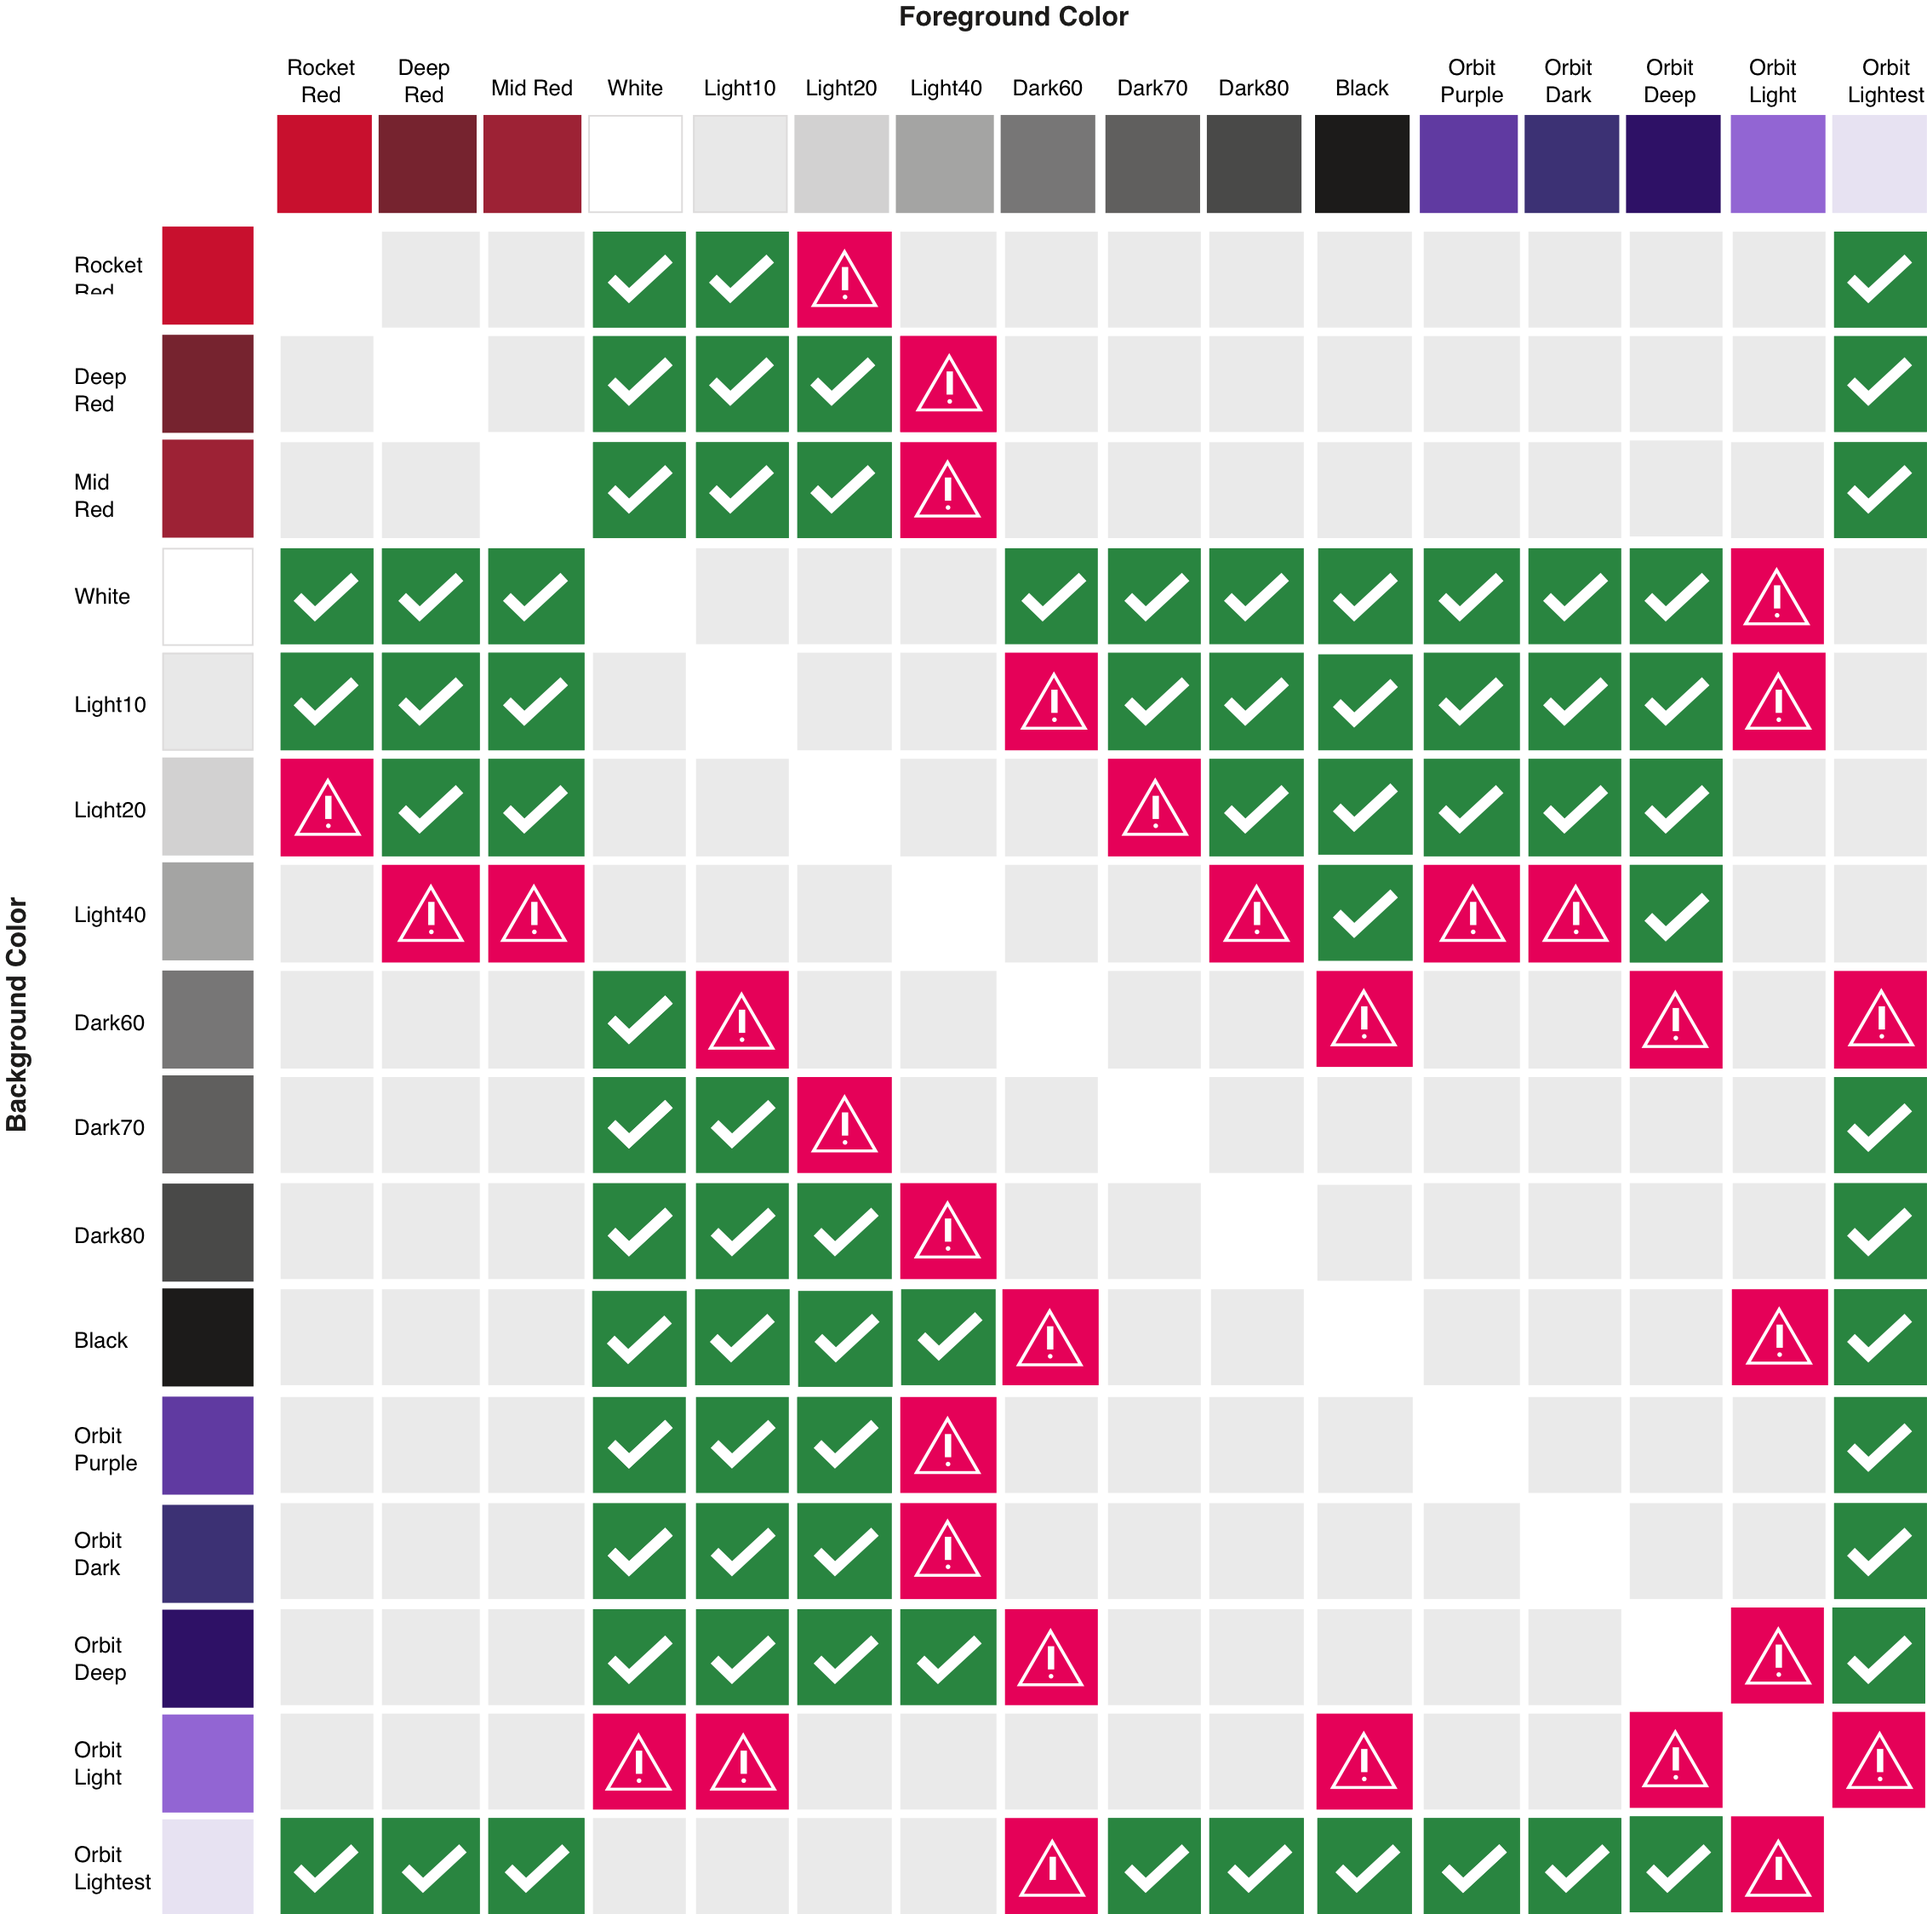
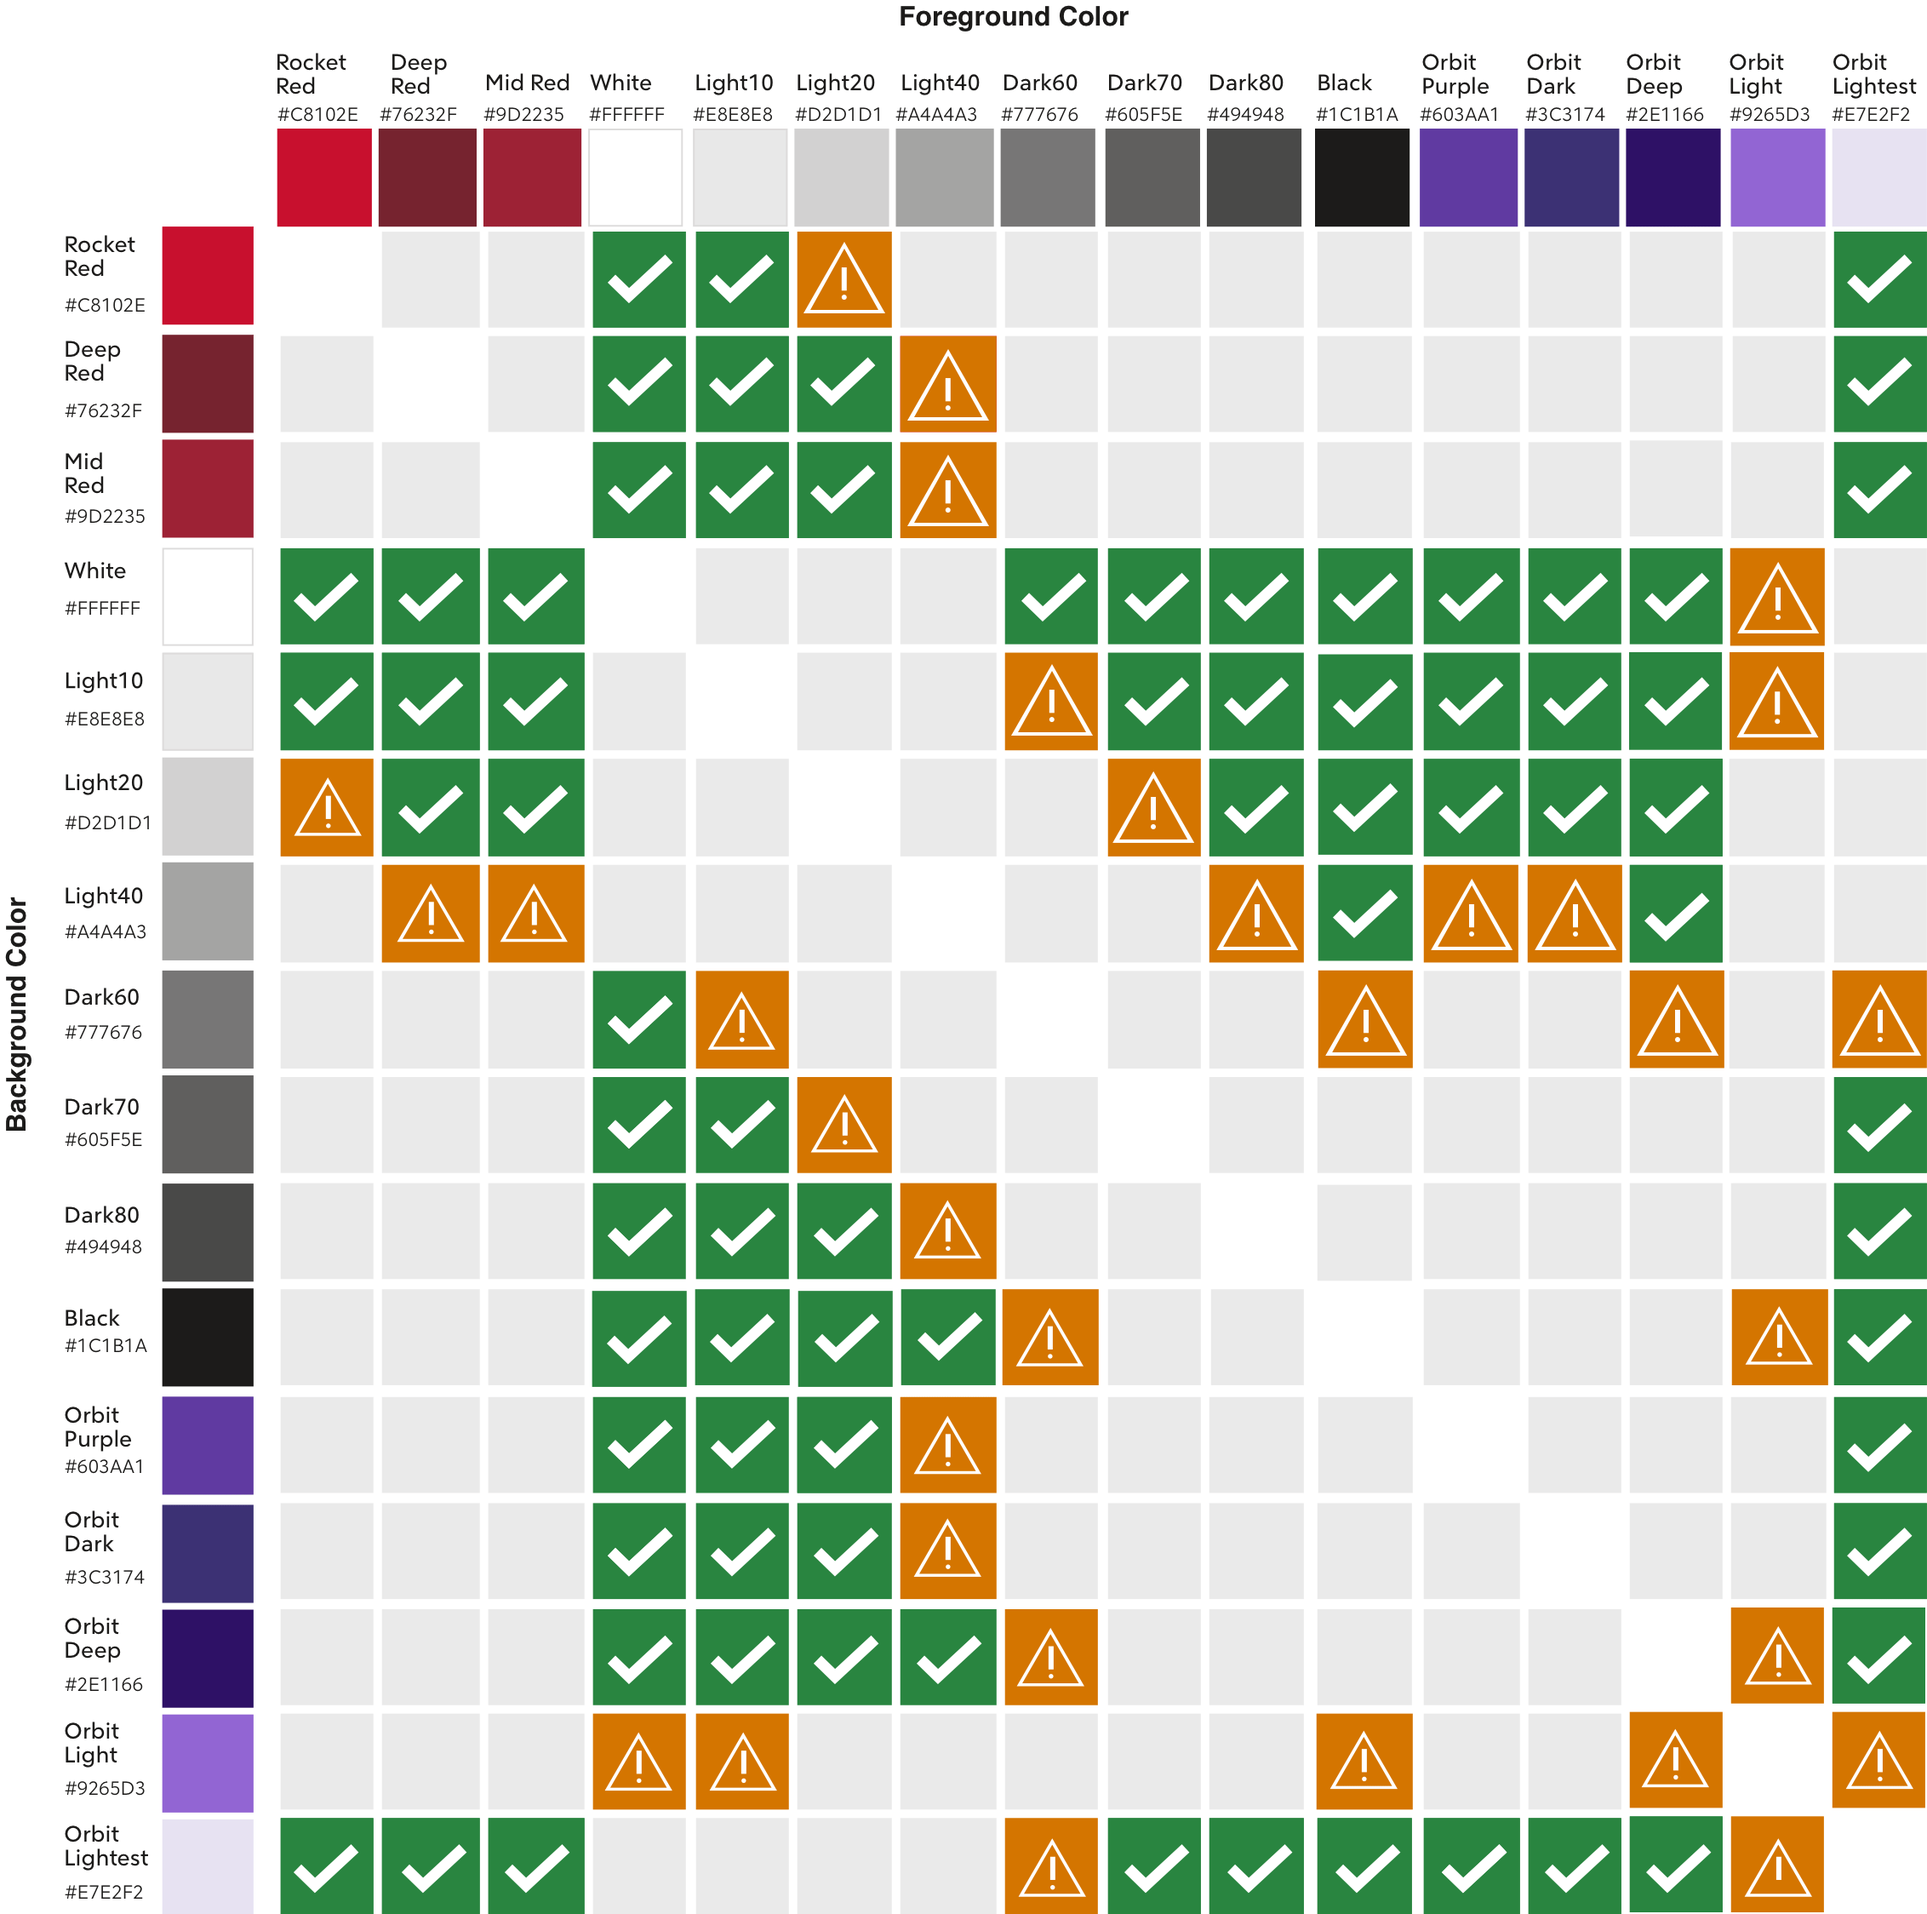
Add orange and hide yellow and pink from site

diff --git a/styles/ios/SparkDesignTokens.swift b/styles/ios/SparkDesignTokens.swift
@@ -93,7 +93,7 @@ public class SparkDesignTokens {
     public static let sprkAlertBgColorSuccess = UIColor(red: 1.000, green: 1.000, blue: 1.000, alpha:1)
     public static let sprkAlertBorderColor = UIColor(red: 0.969, green: 0.969, blue: 0.969, alpha:1)
     public static let sprkAlertDismissIconColor = UIColor(red: 0.110, green: 0.106, blue: 0.102, alpha:1)
-    public static let sprkAlertIconColorFail = UIColor(red: 0.898, green: 0.004, blue: 0.345, alpha:1)
+    public static let sprkAlertIconColorFail = UIColor(red: 0.831, green: 0.459, blue: 0.000, alpha:1)
     public static let sprkAlertIconColorInfo = UIColor(red: 0.110, green: 0.431, blue: 0.949, alpha:1)
     public static let sprkAlertIconColorSuccess = UIColor(red: 0.161, green: 0.522, blue: 0.251, alpha:1)
     public static let sprkAlertShadowColor = UIColor(red: 0.000, green: 0.000, blue: 0.000, alpha:0.08)
@@ -177,6 +177,7 @@ public class SparkDesignTokens {
     public static let sprkMastheadMaskColor = UIColor(red: 0.000, green: 0.000, blue: 0.000, alpha:0.5)
     public static let sprkMidRed = UIColor(red: 0.616, green: 0.133, blue: 0.208, alpha:1)
     public static let sprkModalMaskColor = UIColor(red: 0.133, green: 0.133, blue: 0.133, alpha:0.35)
+    public static let sprkOrange = UIColor(red: 0.831, green: 0.459, blue: 0.000, alpha:1)
     public static let sprkPink = UIColor(red: 0.898, green: 0.004, blue: 0.345, alpha:1)
     public static let sprkPurple = UIColor(red: 0.376, green: 0.227, blue: 0.631, alpha:1)
     public static let sprkPurpleDark = UIColor(red: 0.235, green: 0.192, blue: 0.455, alpha:1)
@@ -191,7 +192,7 @@ public class SparkDesignTokens {
     public static let sprkStepperIconColor = UIColor(red: 1.000, green: 1.000, blue: 1.000, alpha:1)
     public static let sprkStepperIconColorHover = UIColor(red: 0.553, green: 0.553, blue: 0.549, alpha:1)
     public static let sprkStepperIconColorSelected = UIColor(red: 1.000, green: 1.000, blue: 1.000, alpha:1)
-    public static let sprkTextInputErrorColor = UIColor(red: 0.898, green: 0.004, blue: 0.345, alpha:1)
+    public static let sprkTextInputErrorColor = UIColor(red: 0.831, green: 0.459, blue: 0.000, alpha:1)
     public static let sprkWhite = UIColor(red: 1.000, green: 1.000, blue: 1.000, alpha:1)
     public static let sprkWisteria = UIColor(red: 0.871, green: 0.694, blue: 0.992, alpha:1)
     public static let sprkYellow = UIColor(red: 0.929, green: 0.639, blue: 0.008, alpha:1)
@@ -362,7 +363,7 @@ public class SparkDesignTokens {
     public static let sprkSelectDisabledBackgroundColor = UIColor(red: 0.643, green: 0.643, blue: 0.639, alpha:1)
     public static let sprkSelectDisabledBorderColor = UIColor(red: 0.553, green: 0.553, blue: 0.549, alpha:1)
     public static let sprkSelectDisabledColor = UIColor(red: 0.553, green: 0.553, blue: 0.549, alpha:1)
-    public static let sprkSelectErrorBorderColor = UIColor(red: 0.898, green: 0.004, blue: 0.345, alpha:1)
+    public static let sprkSelectErrorBorderColor = UIColor(red: 0.831, green: 0.459, blue: 0.000, alpha:1)
     public static let sprkSelectFocusBorderColor = UIColor(red: 0.376, green: 0.227, blue: 0.631, alpha:1)
     public static let sprkSelectFontFamily = "RocketSans, Helvetica, 'Helvetica Neue', Arial, sans-serif"
     public static let sprkSelectFontSize = CGFloat(16.00)
@@ -737,7 +738,7 @@ public class SparkDesignTokens {
     public static let sprkTextInputDisabledBackgroundColor = UIColor(red: 0.643, green: 0.643, blue: 0.639, alpha:1)
     public static let sprkTextInputDisabledBorderColor = UIColor(red: 0.553, green: 0.553, blue: 0.549, alpha:1)
     public static let sprkTextInputDisabledColor = UIColor(red: 0.553, green: 0.553, blue: 0.549, alpha:1)
-    public static let sprkTextInputErrorBorderColor = UIColor(red: 0.898, green: 0.004, blue: 0.345, alpha:1)
+    public static let sprkTextInputErrorBorderColor = UIColor(red: 0.831, green: 0.459, blue: 0.000, alpha:1)
     public static let sprkTextInputFocusBorderColor = UIColor(red: 0.376, green: 0.227, blue: 0.631, alpha:1)
     public static let sprkTextInputFontFamily = "RocketSans, Helvetica, 'Helvetica Neue', Arial, sans-serif"
     public static let sprkTextInputFontWeight = 300

diff --git a/styles/utilities/_utilities.scss b/styles/utilities/_utilities.scss
@@ -14,7 +14,7 @@
 //
 // Display and Visibility
 ///
-
+// stylelint-disable selector-class-pattern
 /// Turns off the display of an element so that it has no effect on layout.
 /// @group display
 /// @name .sprk-u-JavaScript, .sprk-u-HideWhenJs
@@ -27,7 +27,6 @@
   display: none !important;
 }
 
-// stylelint-enable
 /// The element generates a block element box.
 /// @group display
 .sprk-u-Display--block {
@@ -160,8 +159,6 @@
 .sprk-u-MaxWidth--100 {
   max-width: 100% !important;
 }
-
-/* stylelint-enable selector-class-pattern */
 
 //
 // Alignment
@@ -582,8 +579,6 @@
   background-color: $sprk-magnolia !important;
 }
 
-/* stylelint-enable selector-class-pattern */
-
 //
 // Spacing
 ///
@@ -603,7 +598,6 @@
 /// @group misc-spacing
 /// @name sprk-u-MarginAll--d
 
-/* stylelint-disable  selector-class-pattern */
 // Misc Padding Spacing A
 .sprk-u-PaddingTop--a,
 .sprk-u-PaddingVertical--a,
@@ -804,8 +798,6 @@
   margin-left: $sprk-space-misc-d !important;
 }
 
-/* stylelint-enable  selector-class-pattern */
-
 //
 // Multi-property utilities
 ///
@@ -868,3 +860,5 @@
   overflow: hidden !important;
   text-overflow: ellipsis !important;
 }
+
+// stylelint-enable selector-class-pattern
